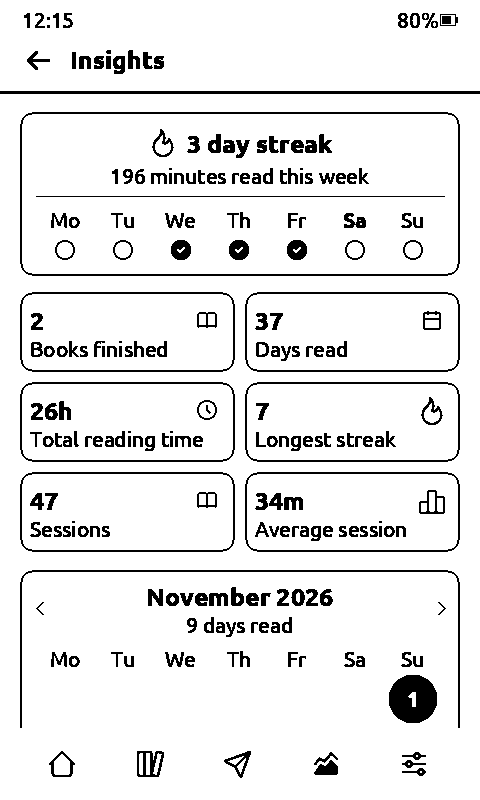
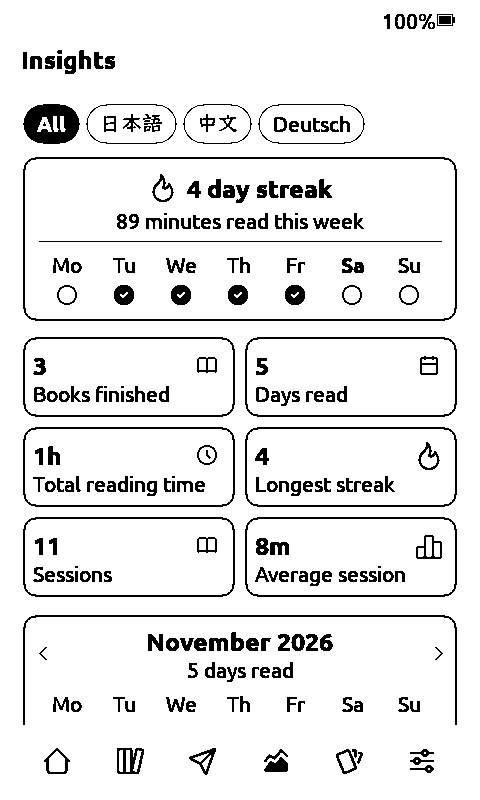
Insights: Flashcards' header, without the rule, clock or back arrow on the main page

diff --git a/plugins/insights/insights.c b/plugins/insights/insights.c
@@ -783,23 +783,12 @@ static void drawBattery(int right, int y) {
   text(gx - 4 - tw - 2, ty < 0 ? 0 : ty, tw + 4, DSN_FONT_SMALL, DSN_ALIGN_RIGHT, 0, buf);
 }
 
-static void drawThemeHeader(const char *title) {
-  const int top = bandTop(), sLH = dsn_line_height(DSN_FONT_SMALL), tLH = dsn_line_height(DSN_FONT_TITLE);
-  const int inset = HDR_SIDE + 4;
-  dsn_clock_t c;
-  if (dsn_clock(&c, sizeof c) == 0) {
-    char buf[8], *p = buf;
-    if (c.hour < 10) *p++ = '0';
-    p = utoa(c.hour, p); *p++ = ':';
-    if (c.minute < 10) *p++ = '0';
-    utoa(c.minute, p);
-    const int ty = top + (HDR_STRIP - sLH) / 2;
-    text(inset, ty < 0 ? 0 : ty, 80, DSN_FONT_SMALL, DSN_ALIGN_LEFT, 0, buf);
-  }
-  drawBattery(W - inset, top);
+static void drawThemeHeader(const char *title, int back) {
+  const int top = bandTop(), tLH = dsn_line_height(DSN_FONT_TITLE);
+  drawBattery(W - HDR_SIDE - 4, top);
   const int rowTop = top + HDR_STRIP, rowHt = HDR_HEIGHT - HDR_STRIP;
   int tx = HDR_SIDE;
-  if (hasTouch) {  // back arrow in the leading 48px slot
+  if (back && hasTouch) {  // a book's page: back arrow in the leading 48px slot
     int cx = HDR_SIDE + HDR_BACK / 2 - 4, cy = rowTop + rowHt / 2 - 2;
     dsn_line(cx - 10, cy, cx + 10, cy, 3, DSN_BLACK);
     dsn_line(cx - 10, cy, cx - 2, cy - 8, 3, DSN_BLACK);
@@ -807,17 +796,16 @@ static void drawThemeHeader(const char *title) {
     tx += HDR_BACK + 4;
   }
   text(tx, rowTop + (rowHt - tLH) / 2 - 2, W - tx - HDR_SIDE, DSN_FONT_TITLE, DSN_ALIGN_LEFT, DSN_TEXT_BOLD, title);
-  dsn_fill(0, top + HDR_HEIGHT - 3, W, 3, DSN_BLACK);
 }
 static int tappedBack(int x, int y) {
   const int top = bandTop() + HDR_STRIP;
-  return hasTouch && y >= top && y < bandTop() + HDR_HEIGHT && x < HDR_SIDE + HDR_BACK + 8;
+  return page == 1 && hasTouch && y >= top && y < bandTop() + HDR_HEIGHT && x < HDR_SIDE + HDR_BACK + 8;
 }
 
 // Header and language pills, drawn over the scrolled content.
 static void drawHeader(const char *title, int withTabs) {
   const int sLH = dsn_line_height(DSN_FONT_SMALL);
-  drawThemeHeader(title);
+  drawThemeHeader(title, !withTabs);
   int y = bandTop() + HDR_HEIGHT + 10;
   tabH = 0;
   if (!withTabs || nTabs <= 1) return;
